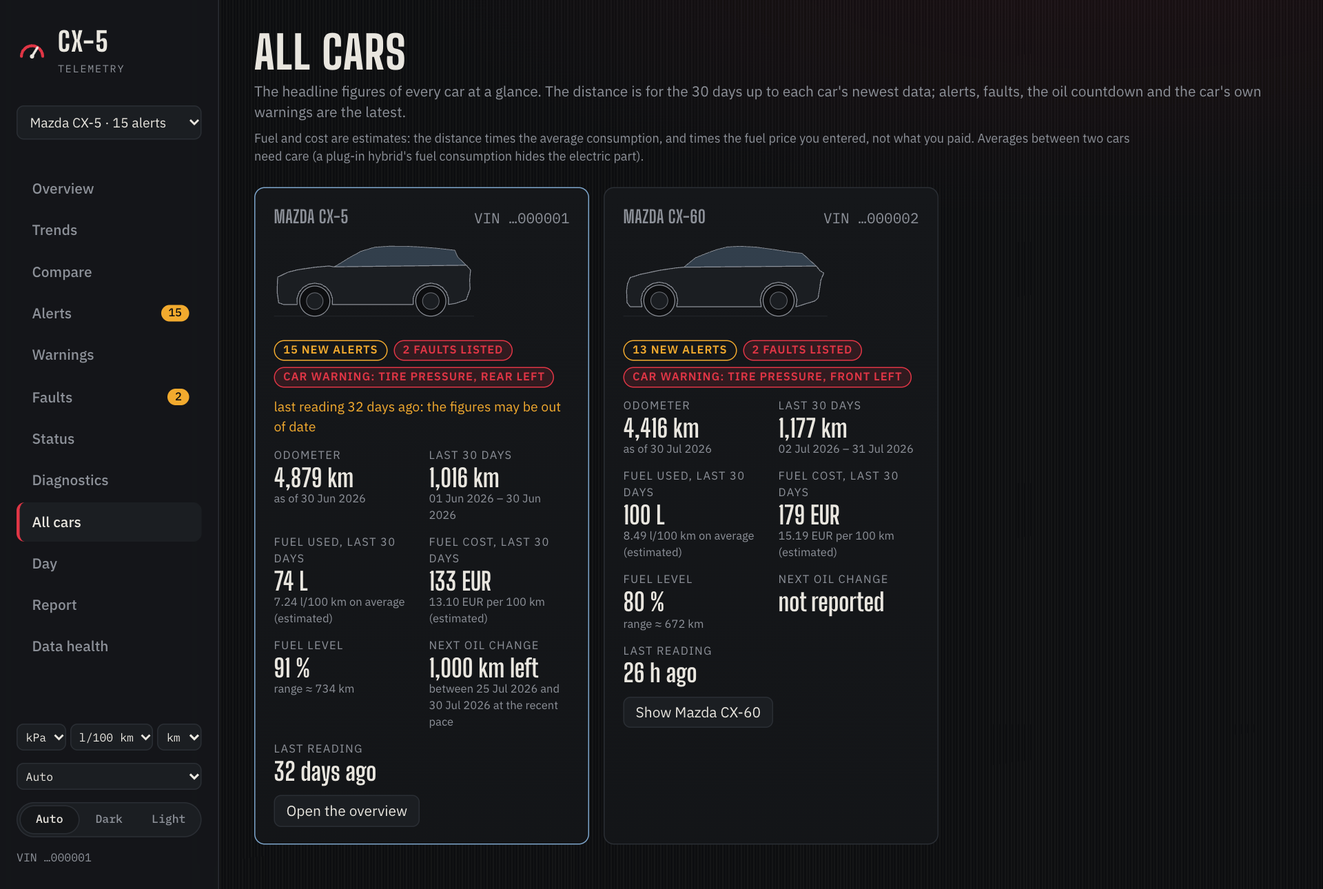
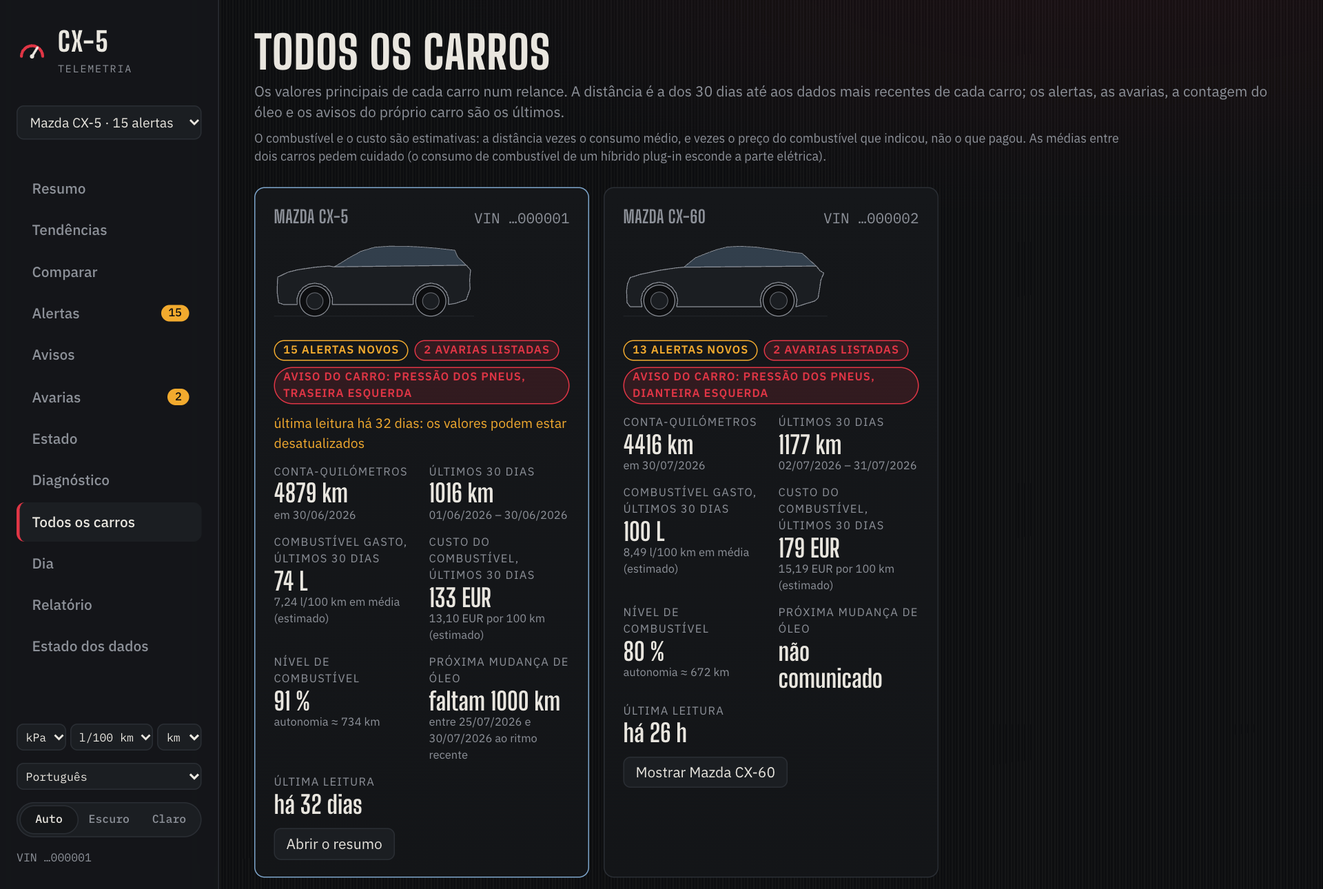
Documentation reviewed for completeness and consistency after milestone 62 (README, CONTRIBUTING, PLAN, CLAUDE, the phone README), and screenshots of the newer pages

diff --git a/frontend/src/i18n/pt/occupancy.ts b/frontend/src/i18n/pt/occupancy.ts
@@ -8,5 +8,5 @@ export const OCCUPANCY: Record<string, string> = {
   'Front passenger': 'Passageiro da frente',
   'Rear left': 'Traseiro esquerdo',
   'Rear right': 'Traseiro direito',
-  'Each seat is shaded by how often its belt was buckled in the snapshots with the driver belted. A third row, a child seat and a passenger who does not buckle up are not seen.': 'Cada lugar é sombreado pela frequência com que o seu cinto estava apertado nos relatórios com o condutor de cinto. Uma terceira fila, uma cadeira de criança e um passageiro que não aperta o cinto não são vistos.',
+  'Each seat is shaded by how often its belt was buckled in the snapshots with the driver belted. A third row and a child seat are not seen either.': 'Cada lugar é sombreado pela frequência com que o seu cinto estava apertado nos relatórios com o condutor de cinto. Uma terceira fila e uma cadeira de criança também não são vistas.',
 }

diff --git a/frontend/src/occupancy.ts b/frontend/src/occupancy.ts
@@ -89,4 +89,4 @@ export function seats(o: Occupancy | undefined, steering: 'left' | 'right' = 'le
 /** How strongly a seat is shaded (0 to 1): its share, with a floor so an empty seat is still drawn. */
 export const seatShade = (s: Pick<Seat, 'pct'>): number => 0.08 + 0.92 * ((s.pct ?? 0) / 100)
 
-export const SEATS_NOTE = msg('Each seat is shaded by how often its belt was buckled in the snapshots with the driver belted. A third row, a child seat and a passenger who does not buckle up are not seen.')
+export const SEATS_NOTE = msg('Each seat is shaded by how often its belt was buckled in the snapshots with the driver belted. A third row and a child seat are not seen either.')

diff --git a/CLAUDE.md b/CLAUDE.md
@@ -4,7 +4,7 @@ This file provides guidance to Claude Code (claude.ai/code) when working with co
 
 ## Current state
 
-**Mazda Data Dashboard** (the project's name since it handles several car models; the `cx5.*` storage keys, the `.cx5pack` extension and the phone's IndexedDB `cx5` keep their old names on purpose). A finished, working project: every milestone in `PLAN.md` up to M44 is done except M28 (adapting to a real CX-60 export: on hold until the owner has that data). **M45 (units), M46 (data health), M47 (refuel log), M48 (driving pattern), M49 (the day page), M50 (service log), M51 (tire leak forecast), M52 (maintenance and mileage forecast), M53 (import from the dashboard), M54 (report for the workshop), M55 (alerts on the car), M56 (time scrubber), M57 (the seats), M58 (a fault on the car), M59 (fault map), M60 (cars on other pages), M61 (code description packs) and M62 (a second language: Portuguese of Portugal, see "Language" below) are done, all in `PLAN.md` "More value from the same data" (a day page, service log, tire and maintenance forecasts, import from the dashboard, a report for the mechanic, 3D follow-ups, code description packs, a second language): one milestone at a time, each started on the owner's word. Python backend in `backend/` (uv), React dashboard in `frontend/`, offline iPhone app in `mobile/` (reuses the frontend's pages), configuration per car model in `config/models/<id>/` (alert rules, settings, your code descriptions; the model list is `config/models.yaml`), private raw exports in `data/<id>/` and databases in `db/<id>.duckdb` (both gitignored), synthetic `sample_data/<id>/` that is committed. The project supports several Mazda models (CX-5 real, CX-60 synthetic so far): see "Car models". `README.md` is the user-facing guide, `CONTRIBUTING.md` the contributor guide, `docs/data-dictionary.md` documents the files, tables and views, and `PLAN.md` keeps the decisions and what each milestone built.
+**Mazda Data Dashboard** (the project's name since it handles several car models; the `cx5.*` storage keys, the `.cx5pack` extension and the phone's IndexedDB `cx5` keep their old names on purpose). A finished, working project: **every milestone in `PLAN.md` (M1–M62) is done except M28** (adapting to a real CX-60 export: on hold until the owner has that data). Nothing is planned next; anything new is a new milestone, written in `PLAN.md` first and started on the owner's word. Python backend in `backend/` (uv), React dashboard in `frontend/`, offline iPhone app in `mobile/` (reuses the frontend's pages), configuration per car model in `config/models/<id>/` (alert rules, settings, your code descriptions; the model list is `config/models.yaml`), private raw exports in `data/<id>/` and databases in `db/<id>.duckdb` (both gitignored), synthetic `sample_data/<id>/` that is committed. The project supports several Mazda models (CX-5 real, CX-60 synthetic so far): see "Car models". `README.md` is the user-facing guide, `CONTRIBUTING.md` the contributor guide, `docs/data-dictionary.md` documents the files, tables and views, and `PLAN.md` keeps the decisions and what each milestone built.
 
 Commands (from the repo root; the README has the full table): `make setup`, `make ingest` (loads `data/<id>/` into `db/<id>.duckdb`, idempotent, then evaluates alerts), `make dev` (API :8000 + Vite :5173), `make demo` (same with the synthetic data in its own database), `make model` (reload each model's `config/models/<id>/codes/*.yaml` and `settings.yaml`, recreate views; **run it after changing views or config, and after pulling a version that changed `views.sql`**), `make timezone`, `make unmapped`, `make alerts`, `make compat`, `make models`, `make migrate-models`, `make types` (regenerate `frontend/src/api/schema.d.ts` after changing API models), `make test` / `make lint` (backend and frontend), `make mobile-test` (phone app against the Python API), `make mobile-pack`, `make mobile-dev` / `mobile-build`, `make format`, `make profile`, `make audit`, `make screenshots`, and `make reset-db` (deletes the database, alert acknowledgements included).
 
@@ -46,11 +46,11 @@ Things to know before writing parsing code:
 
 `backend/src/mazda_dash/api/`: `app.py` (read-only FastAPI endpoints under `/api`, each a thin query over a `v_*` view; `GET /api/garage` composes three of them, see "All cars"), `models.py` (Pydantic response models = the OpenAPI contract), `selection.py` (the `model` dependency) and `db.py` (one short-lived read-only DuckDB connection per request so `make ingest` can write between calls, on the database of the model the request names; `MAZDA_DB` replaces the default model's database only, `MAZDA_ROOT` points at another repository root, both for tests and the demo; naive UTC timestamps are returned as explicit `...Z`). Add an endpoint by adding a model + route, then `make types` and the phone app's twin (see "Keep both implementations in step" below).
 
-`frontend/` (Vite + React 19 + TypeScript): `src/api/hooks.ts` (typed `openapi-fetch` client + TanStack Query hooks; `schema.d.ts` and `openapi.json` are generated, do not edit), `src/pages/` (Overview, Trends, Compare + ComparePeriods, Garage = "All cars", Alerts, Warnings, Faults, Status, Diagnostics), `src/components/ui.tsx` (Panel, Stat, sortable DataTable, QueryState), `src/lib.ts` (formatters and the model/range helpers), `src/trends.ts`, `src/compare.ts`, `src/garage.ts` (pure logic), `src/model.ts` and `src/range.ts` (the model and the period in the address); every `*.ts` next to them has a `*.test.ts` (run with `cd frontend && npm test`). Vite proxies `/api` to :8000. Styling is one hand-written `src/index.css` using CSS variables (dark default; light via `prefers-color-scheme` or the Auto/Dark/Light toggle, see Appearance below); fonts are bundled with `@fontsource` packages (imported in `src/main.tsx`; the phone app does the same in its own `main.tsx`), so neither app contacts another host. npm quirk: `frontend/.npmrc` sets `legacy-peer-deps` because plain `npm install` crashes with this dependency set, so peers such as `react-is` (needed by Recharts) must be listed explicitly.
+`frontend/` (Vite + React 19 + TypeScript): `src/api/hooks.ts` (typed `openapi-fetch` client + TanStack Query hooks; `schema.d.ts` and `openapi.json` are generated, do not edit), `src/pages/` (Overview, Trends, Compare + ComparePeriods, Garage = "All cars", Alerts, Warnings, Faults, Status, Diagnostics, Day, Report, DataHealth, Import), `src/components/ui.tsx` (Panel, Stat, sortable DataTable, QueryState), `src/lib.ts` (formatters and the model/range helpers), `src/trends.ts`, `src/compare.ts`, `src/garage.ts` (pure logic), `src/model.ts` and `src/range.ts` (the model and the period in the address); every `*.ts` next to them has a `*.test.ts` (run with `cd frontend && npm test`). Vite proxies `/api` to :8000. Styling is one hand-written `src/index.css` using CSS variables (dark default; light via `prefers-color-scheme` or the Auto/Dark/Light toggle, see Appearance below); fonts are bundled with `@fontsource` packages (imported in `src/main.tsx`; the phone app does the same in its own `main.tsx`), so neither app contacts another host. npm quirk: `frontend/.npmrc` sets `legacy-peer-deps` because plain `npm install` crashes with this dependency set, so peers such as `react-is` (needed by Recharts) must be listed explicitly.
 
 ## Alerts
 
-`backend/src/mazda_dash/alerts/`: `config.py` (strict pydantic model of `config/models/<id>/alerts.yaml`; typos fail loudly), `detectors.py` (one function per rule, registry `DETECTORS`; rule names must match fields of `Rules`), `store.py` (`alerts` table, `add_if_new` keyed by `dedup_key`), `engine.py` (`run_alerts`), `notify.py` (optional macOS notification). Rules are raised once per `dedup_key` regardless of status, so acknowledged alerts never come back; event rules only look back `lookback_days` from the newest data point, state rules (`recurring_dtc`, `low_fuel`, `data_gap`, `oil_change_due`) evaluate the current state. The rules are `new_dtc`, `recurring_dtc`, `new_warning_code`, `warning_spike`, `burglar_alarm`, `high_consumption`, `low_fuel`, `low_tire_pressure`, `oil_change_due`, `car_warning_flag`, `new_warning_flag`, `low_battery_frame`, `tire_leak_forecast` (off by default, M51) and `data_gap`. To add a rule: model in `config.py` + detector + test in `tests/test_alerts.py`. The API lists/acknowledges alerts (`/api/alerts*`, the only write endpoints, using a short read-write connection that returns 503 while `make ingest` holds the lock); the UI page is `frontend/src/pages/Alerts.tsx`. Alerts live in the same DuckDB file, so `make reset-db` loses acknowledgements.
+`backend/src/mazda_dash/alerts/`: `config.py` (strict pydantic model of `config/models/<id>/alerts.yaml`; typos fail loudly), `detectors.py` (one function per rule, registry `DETECTORS`; rule names must match fields of `Rules`), `store.py` (`alerts` table, `add_if_new` keyed by `dedup_key`), `engine.py` (`run_alerts`), `notify.py` (optional macOS notification). Rules are raised once per `dedup_key` regardless of status, so acknowledged alerts never come back; event rules only look back `lookback_days` from the newest data point, state rules (`recurring_dtc`, `low_fuel`, `data_gap`, `oil_change_due`) evaluate the current state. The rules are `new_dtc`, `recurring_dtc`, `new_warning_code`, `warning_spike`, `burglar_alarm`, `high_consumption`, `low_fuel`, `low_tire_pressure`, `oil_change_due`, `car_warning_flag`, `new_warning_flag`, `low_battery_frame`, `tire_leak_forecast` (off by default, M51) and `data_gap`. To add a rule: model in `config.py` + detector + test in `tests/test_alerts.py`. The API lists/acknowledges alerts (`/api/alerts*`; the other write endpoints are `POST /api/service-log`, M50, and `POST /api/import`, M53, both Python only; all use a short read-write connection that returns 503 while `make ingest` holds the lock); the UI page is `frontend/src/pages/Alerts.tsx`. Alerts live in the same DuckDB file, so `make reset-db` loses acknowledgements.
 
 **Every route takes the optional `model` query parameter (M23)**, because `get_con` / `get_rw_con` depend on `get_model` (omitted = the default model, unknown id = 404 listing the valid ones, broken model config = 503). A route that needs a database must use `Con` / `RwCon` (or `Selected`), never open a file itself; `tests/test_api_models.py` fails when a route lacks the parameter and checks that two models answer differently, that acknowledging alerts in one model leaves the other alone, and that `MAZDA_DB` never answers for another model. `GET /api/models` lists the models with `has_data` and their first/last day (the dashboard's switcher reads it in M24); it, like `/api/health`, has no golden case because the phone answers for itself (a stored pack is one model, M26). The TypeScript engine answers for the one pack it has loaded and refuses another model with the same 404 (M26).
 

diff --git a/PLAN.md b/PLAN.md
@@ -2,7 +2,7 @@
 
 Personal dashboard to analyse the data Mazda exported for my cars (a CX-5, and a CX-60 set up the same way), with alerts for relevant events. The files in `data/` are described in [docs/data-dictionary.md](docs/data-dictionary.md); how to use the app is in [README.md](README.md); [CLAUDE.md](CLAUDE.md) is the tour of the code. The repo is meant to be open-sourced, so privacy and reproducibility were designed in from the start.
 
-**Status: complete. All planned milestones (M1–M44) are done except M28** (adapting to a real CX-60 export: conditional, not started): the Mac dashboard (M1–M11), the offline iPhone app (M12–M16, live on GitHub Pages and tested on a real iPhone), four features built from the car's own signals (M17 next oil change, M18 the car's own warnings, M19 tire reading time, M20 warning-lamp flags), several car models (M21–M27), comparing cars and periods and the estimated fuel cost (M29–M34), more from the data already loaded (M35 when the car is used, M36 fault context, M37 who rides), and the car in 3D (M38–M41 the status view on the Mac and the phone, M42–M44 each car's own shape traced from the owner's photos). **Built after that: eighteen further milestones, M45–M62 (see "More value from the same data"), all done; M28 stays on hold until there is a real CX-60 export.** Other ideas are under "Ideas not built". This file keeps the design decisions and the plan each milestone was built from, with an "as built" note where the result differs; it is a design log, so some sections describe the plan in the future tense before the "as built" note that follows them.
+**Status: complete. Every planned milestone (M1–M62) is done except M28** (adapting to a real CX-60 export: on hold until there is one): the Mac dashboard (M1–M11), the offline iPhone app (M12–M16, live on GitHub Pages and tested on a real iPhone), four features built from the car's own signals (M17 next oil change, M18 the car's own warnings, M19 tire reading time, M20 warning-lamp flags), several car models (M21–M27), comparing cars and periods and the estimated fuel cost (M29–M34), more from the data already loaded (M35 when the car is used, M36 fault context, M37 who rides), the car in 3D (M38–M41 the status view on the Mac and the phone, M42–M44 each car's own shape traced from the owner's photos), and eighteen milestones of "more value from the same data" (M45–M62: units, data health, fill-ups, the driving pattern, the day page, a service log, the tire leak and maintenance forecasts, import from the dashboard, a report for the workshop, six follow-ups of the 3D car, code description packs, and Portuguese as a second language). Other ideas are under "Ideas not built". This file keeps the design decisions and the plan each milestone was built from, with an "as built" note where the result differs; it is a design log, so some sections describe the plan in the future tense before the "as built" note that follows them.
 
 ## Decisions
 
@@ -34,7 +34,10 @@ backend/                    # uv project (pyproject.toml, uv.lock)
     ingest/                 # per-file parsers -> DuckDB tables
     model/                  # code lookups, settings, SQL views (views.sql)
     alerts/                 # rule engine, store, optional desktop notification
-    api/                    # FastAPI app, model selection, date range, monthly trends
+    api/                    # FastAPI app, model selection, date range, monthly trends, one file per later page (day, driving, health, refuels, service)
+    tires.py, forecast.py   # the tire leak and looking-ahead estimates (one SQL each, shared by the API and the alert rules)
+    importer.py             # import from the dashboard (POST /api/import)
+    codepack.py             # make codes-export / codes-import
     pack.py                 # data pack export for the phone app
     contract.py             # records the Python API's answers for the phone app's contract tests
     timezone_check.py       # make timezone
@@ -44,10 +47,13 @@ backend/                    # uv project (pyproject.toml, uv.lock)
     profile.py              # data profiling (make profile)
   tests/
 frontend/                   # Vite + React + TS (src/api, components, pages): the Mac dashboard
+  src/*.ts                  # the pure, tested logic and wording of each page (trends, compare, car, day, report, ...)
+  src/i18n/                 # the two languages: the typed menu catalogue, tr() and the Portuguese phrases (pt/)
   src/car3d/                # the car in 3D on Status: pure geometry, camera and labels, the three.js scene, shapes/
 mobile/                     # the offline iPhone app (Vite + React + DuckDB-WASM); reuses frontend/src
   src/engine/               # the Python API in TypeScript
-config/                     # models.yaml; models/<id>/ = model.yaml, alerts.yaml, settings.yaml, codes/*.yaml
+config/                     # models.yaml; models/<id>/ = model.yaml, alerts.yaml, settings.yaml, codes/*.yaml,
+                            #   and the owner's optional fuel_log.yaml, service_log.yaml, layout.yaml
 data/<id>/                  # private raw exports, one folder per model (gitignored)
 db/                         # <id>.duckdb databases and <id>.cx5pack data packs (gitignored)
 sample_data/<id>/           # synthetic data per model (committed)
@@ -58,7 +64,7 @@ Makefile  README.md  CONTRIBUTING.md  PLAN.md  CLAUDE.md  LICENSE
 
 ## Makefile targets
 
-The README has a one-line description of each: `setup`, `models`, `migrate-models`, `compat`, `ingest`, `alerts`, `model`, `timezone`, `unmapped`, `api`, `web`, `dev`, `demo-ingest`, `demo`, `sample-data`, `types`, `test`, `lint`, `format`, `profile`, `audit`, `reset-db`, `clean`, `screenshots`, and for the phone app `mobile-install`, `mobile-pack`, `mobile-demo-pack`, `mobile-dev`, `mobile-build`, `mobile-typecheck`, `mobile-golden`, `mobile-golden-real`, `mobile-test`.
+The README has a one-line description of each: `setup`, `models`, `migrate-models`, `compat`, `codes-export`, `codes-import`, `ingest`, `alerts`, `model`, `timezone`, `unmapped`, `api`, `web`, `dev`, `demo-ingest`, `demo`, `sample-data`, `types`, `test`, `lint`, `format`, `profile`, `audit`, `reset-db`, `clean`, `screenshots`, and for the phone app `mobile-install`, `mobile-pack`, `mobile-demo-pack`, `mobile-dev`, `mobile-build`, `mobile-typecheck`, `mobile-golden`, `mobile-golden-real`, `mobile-test`.
 
 ## Milestones
 
@@ -91,6 +97,17 @@ The README has a one-line description of each: `setup`, `models`, `migrate-model
 | M32 | All cars at a glance ✅ | a card per car (odometer, last 30 days, fuel, oil, alerts, faults, car warnings, stale-data note), Mac and phone, alert counts in the model selector |
 | M31 | Compare two periods of one car ✅ | the Compare page with "this period against that one" (last 30 days against the 30 before, this month against a year ago, before and after a date, or two periods you pick), tones only for the same car |
 | M34 | Fuel and cost on All cars ✅ | litres and average l/100 km, total and average cost on each All cars card, for the same 30 days as the distance; estimates, cost only with a fuel price |
+| M35–M37 | More from the CSVs already loaded ✅ | when the car is used (by hour and weekday), what a fault's freeze frames have in common, who rides (from the seat belts) |
+| M38–M41 | The car in 3D ✅ | the car part by part as a list and as a 3D schematic on Status, on the Mac and the phone, with each model's dimensions |
+| M42–M44 | A recognisable car in 3D ✅ | shapes by name; the CX-60 and the 2026 CX-5 traced from the owner's photos |
+| M45–M46 | Units, data health ✅ | kPa / bar / psi, l/100 km / km/l / mpg, km / miles per device; a page on what the exports cover |
+| M47–M49 | Fill-ups, driving pattern, one day ✅ | the refuel log with what was paid, stretches by length, the Day page |
+| M50–M52 | Service log, tire leak forecast, looking ahead ✅ | the owner's notes on the charts, a wheel's rate of loss and date, oil-change dates, yearly distance, a calendar file |
+| M53–M54 | Import from the dashboard, report for the workshop ✅ | drop Mazda's download on a page; a printable page for the mechanic |
+| M55–M60 | The 3D car, further ✅ | alerts on the parts, a time slider, the seats, a fault's frames on the car, the fault map, side views on All cars and Compare |
+| M61–M62 | Code description packs, a second language ✅ | share descriptions as a file; both apps in Portuguese (Portugal) as well as English |
+
+M28 (a real CX-60 export) is the only milestone not built; it has no row because there is nothing to show yet.
 
 Each milestone was implemented only on request ("start implementing milestone N") and ended with a summary and a check that it works.
 

diff --git a/CONTRIBUTING.md b/CONTRIBUTING.md
@@ -76,8 +76,9 @@ The code tour is in [CLAUDE.md](CLAUDE.md); the ones that matter most when chang
     is an amount. Compare says "higher" and "lower" between two cars, never "better" or "worse", and uses the
     good/bad colours only for the same car over time.
 12. **Tests must not depend on your own configuration.** The files in `config/models/<id>/` are the owner's (their
-    code descriptions, their fuel prices): tests that need settings pass their own (`ingest(..., settings_path)`).
-
+    code descriptions, their fuel prices, their service log): tests that need settings pass their own
+    (`ingest(..., settings_path)`), and a test that writes (the import, the service log) builds a temporary root and
+    sets `MAZDA_ROOT`. Never import test files into a real `data/` folder.
 13. **The 3D car** (`frontend/src/car3d/`, on the Status page). It draws what `frontend/src/car.ts` says about each
     part and nothing else, so the list and the drawing cannot disagree. `three` stays in the chunk that is loaded with
     the view: only `scene.ts` and `Car3D.tsx` import it (a test fails otherwise). It renders on a change, never in a
@@ -90,13 +91,23 @@ The code tour is in [CLAUDE.md](CLAUDE.md); the ones that matter most when chang
     `shape:` in the model's `model.yaml`. The tests that every shape must pass then run on it. **Never commit the
     photos** (or anything read from a number plate), and do not use a manufacturer's model or drawing. The generic
     shape is pinned by a fixture and must not change.
-
 15. **Text is in two languages.** Anything a reader sees goes through `tr('English text', { values })` (or `trn` for a
     count, `msg` for a constant that is shown later with `tr(value)`), from `frontend/src/i18n`, and gets its Portuguese
     (Portugal) in `frontend/src/i18n/pt/<area>.ts`, with the same `{placeholders}`. Menu entries and page titles have a key
     in `i18n/en.ts` and `pt.ts` instead. A test reads the source and fails for a phrase with no Portuguese, and for text
     typed straight into the markup. A new alert rule also needs its sentences in `frontend/src/alerttext.ts`. Not fluent
     in Portuguese? Say so in the pull request and leave your best attempt: it will be reviewed.
+16. **Units are converted only where they are shown.** The API, the database, the alert rules and all the maths stay
+    in kPa, l/100 km and km; a page or component formats through `frontend/src/units.ts` and never spells out a unit
+    itself (a test fails otherwise).
+17. **Estimates are worded as estimates, and nothing passes a verdict.** A forecast says "at this rate", a fill-up or
+    a drive is "between two status reports", a pattern in freeze frames "tends to appear when", never a cause. Each
+    wording module has a test that forbids verdict words, in both languages; a new one should have the same.
+18. **What the owner knows is never invented.** The repository ships no `layout.yaml` (where control units sit), no
+    code titles that are not known, and no limits the car did not report or the owner did not set.
+19. **A new alert rule** needs its model in `alerts/config.py`, a detector and a test, a row in the README's Alerts
+    table, the part of the car it is about in `ALERT_PART` (`frontend/src/car.ts`), and its sentences and name in
+    `frontend/src/alerttext.ts`; tests read the detectors' list and fail when one of those two is missing.
 
 ## Pull requests
 

diff --git a/mobile/README.md b/mobile/README.md
@@ -4,6 +4,10 @@ The Mazda Data Dashboard as an offline web app for an iPhone: the same pages as 
 (`../frontend/src`, shared through the `@frontend` alias), running on the data stored **on the
 phone**. No server, no account, and no request to any host but its own. The Mac app is untouched.
 
+It is a read-only viewer: it has every page of the Mac dashboard except **Import**, and it shows the service log
+without the form that adds to it (both write files on the Mac). What you keep in files on the Mac (fuel log, service
+log, fault-map placements, the 3D car's dimensions) reaches the phone inside the data pack.
+
 How it works (details and measurements in `../PLAN.md`):
 
 - `make mobile-pack` on the Mac exports each car model's database as `db/<model>.cx5pack` (for example `db/cx5.cx5pack`; the manifest names the model) (Parquet tables in a zip,
@@ -24,7 +28,9 @@ make mobile-build          # production build into mobile/dist (includes the ser
 make mobile-test           # contract + app tests
 ```
 
-Open the app, tap **Load demo data**, or **Import data pack** and choose a `.cx5pack`.
+Open the app, tap **Load demo data**, or **Import data pack** and choose a `.cx5pack`. The app is in English and
+Portuguese (Portugal): *More → Data on this phone → Units and language*; its own text uses the shared
+`@frontend/i18n` (see [CONTRIBUTING.md](../CONTRIBUTING.md), rule 15).
 On a phone, AirDrop the pack to Files first. `HOST=1` exposes only the demo data; never serve a
 real pack over the network.
 
@@ -38,7 +44,8 @@ real pack over the network.
 | `src/storage.ts` | IndexedDB: packs (keyed by model) and acknowledgements (prefixed by model) |
 | `src/engine-browser.ts` | DuckDB-WASM in a Web Worker (one query at a time) |
 | `src/SummaryGate.tsx` | the pages about several cars (Compare, All cars): prepares the cached figures of the stored cars first |
-| `src/DataScreen.tsx` | import, demo (both demo cars), pack information per model, delete one or all |
+| `src/DataScreen.tsx` | import, demo (both demo cars), pack information per model, units and language, delete one or all |
+| `src/messages.ts` | what the controller and the pack reader say, worded in the reader's language (they stay English and UI-free themselves) |
 | `src/engine/` | the Python API in TypeScript (`api.ts` routes, one file per area, `pack.ts` loader) |
 | `test/` | contract tests (replay the Python API's answers), controller and engine tests |
 
@@ -57,7 +64,7 @@ the path of the first difference.
 ## Installing and offline use
 
 A production build is an installable web app: on an iPhone open the hosted address in Safari, Share,
-**Add to Home Screen**. It saves itself on the phone (about 36 MB, once; the Data screen says
+**Add to Home Screen**. It saves itself on the phone (about 37 MB, once; the Data screen says
 "Works offline: yes" when it is done) and then opens with no connection. When a newer build is
 published the app offers an **Update** button. Service workers need `https://` (or `localhost`), so
 this works on the hosted site and on `localhost` in the iOS Simulator, not from
